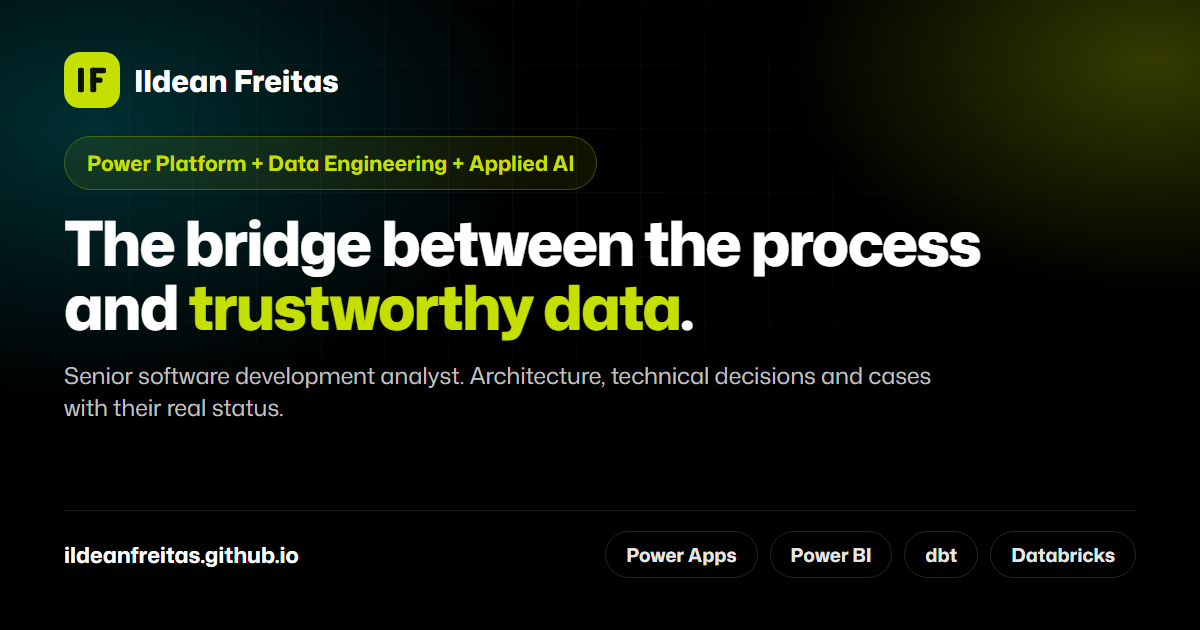
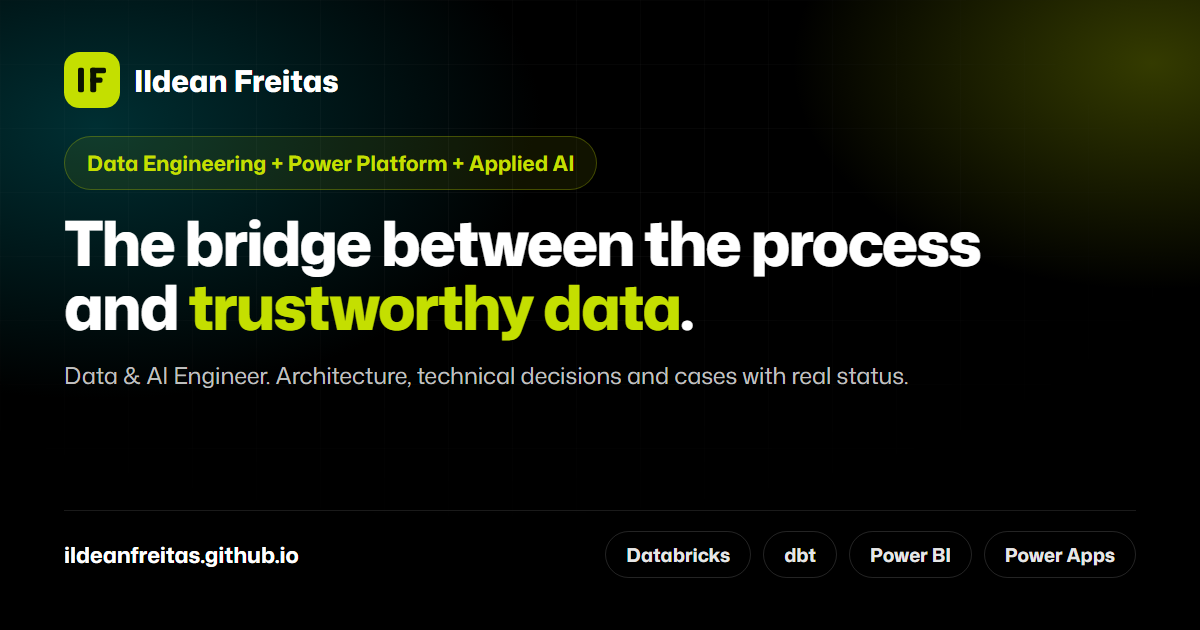
feat: imagens de compartilhamento como Data & AI Engineer
As prévias og-image (PT e EN) ainda diziam "Analista de desenvolvimento de
software sênior" e a ordem antiga das frentes. O gerador passa a usar o
mesmo título e a mesma ordem do site (Engenharia de Dados primeiro) e o
og:image:alt descreve a imagem nova. O mesmo gerador produz o banner do
README de perfil.

diff --git a/en/index.html b/en/index.html
@@ -32,7 +32,7 @@
 <meta property="og:image" content="https://ildeanfreitas.github.io/assets/img/og-image-en.png">
 <meta property="og:image:width" content="1200">
 <meta property="og:image:height" content="630">
-<meta property="og:image:alt" content="Ildean Freitas — the bridge between the process and trustworthy data. Data Engineering, Power Platform and Applied AI.">
+<meta property="og:image:alt" content="Ildean Freitas, Data &amp; AI Engineer — the bridge between the process and trustworthy data. Data Engineering, Power Platform and Applied AI.">
 <meta name="twitter:card" content="summary_large_image">
 
 <!-- Dark is the default on any system; the main script switches this colour

diff --git a/src/index.en.template.html b/src/index.en.template.html
@@ -32,7 +32,7 @@
 <meta property="og:image" content="https://ildeanfreitas.github.io/assets/img/og-image-en.png">
 <meta property="og:image:width" content="1200">
 <meta property="og:image:height" content="630">
-<meta property="og:image:alt" content="Ildean Freitas — the bridge between the process and trustworthy data. Data Engineering, Power Platform and Applied AI.">
+<meta property="og:image:alt" content="Ildean Freitas, Data &amp; AI Engineer — the bridge between the process and trustworthy data. Data Engineering, Power Platform and Applied AI.">
 <meta name="twitter:card" content="summary_large_image">
 
 <!-- Dark is the default on any system; the main script switches this colour

diff --git a/index.html b/index.html
@@ -32,7 +32,7 @@
 <meta property="og:image" content="https://ildeanfreitas.github.io/assets/img/og-image.png">
 <meta property="og:image:width" content="1200">
 <meta property="og:image:height" content="630">
-<meta property="og:image:alt" content="Ildean Freitas — a ponte entre o processo e o dado confiável. Engenharia de Dados, Power Platform e IA aplicada.">
+<meta property="og:image:alt" content="Ildean Freitas, Data &amp; AI Engineer — a ponte entre o processo e o dado confiável. Engenharia de Dados, Power Platform e IA aplicada.">
 <meta name="twitter:card" content="summary_large_image">
 
 <!-- O tema escuro é o padrão em qualquer sistema; o script principal troca

diff --git a/src/index.template.html b/src/index.template.html
@@ -32,7 +32,7 @@
 <meta property="og:image" content="https://ildeanfreitas.github.io/assets/img/og-image.png">
 <meta property="og:image:width" content="1200">
 <meta property="og:image:height" content="630">
-<meta property="og:image:alt" content="Ildean Freitas — a ponte entre o processo e o dado confiável. Engenharia de Dados, Power Platform e IA aplicada.">
+<meta property="og:image:alt" content="Ildean Freitas, Data &amp; AI Engineer — a ponte entre o processo e o dado confiável. Engenharia de Dados, Power Platform e IA aplicada.">
 <meta name="twitter:card" content="summary_large_image">
 
 <!-- O tema escuro é o padrão em qualquer sistema; o script principal troca
